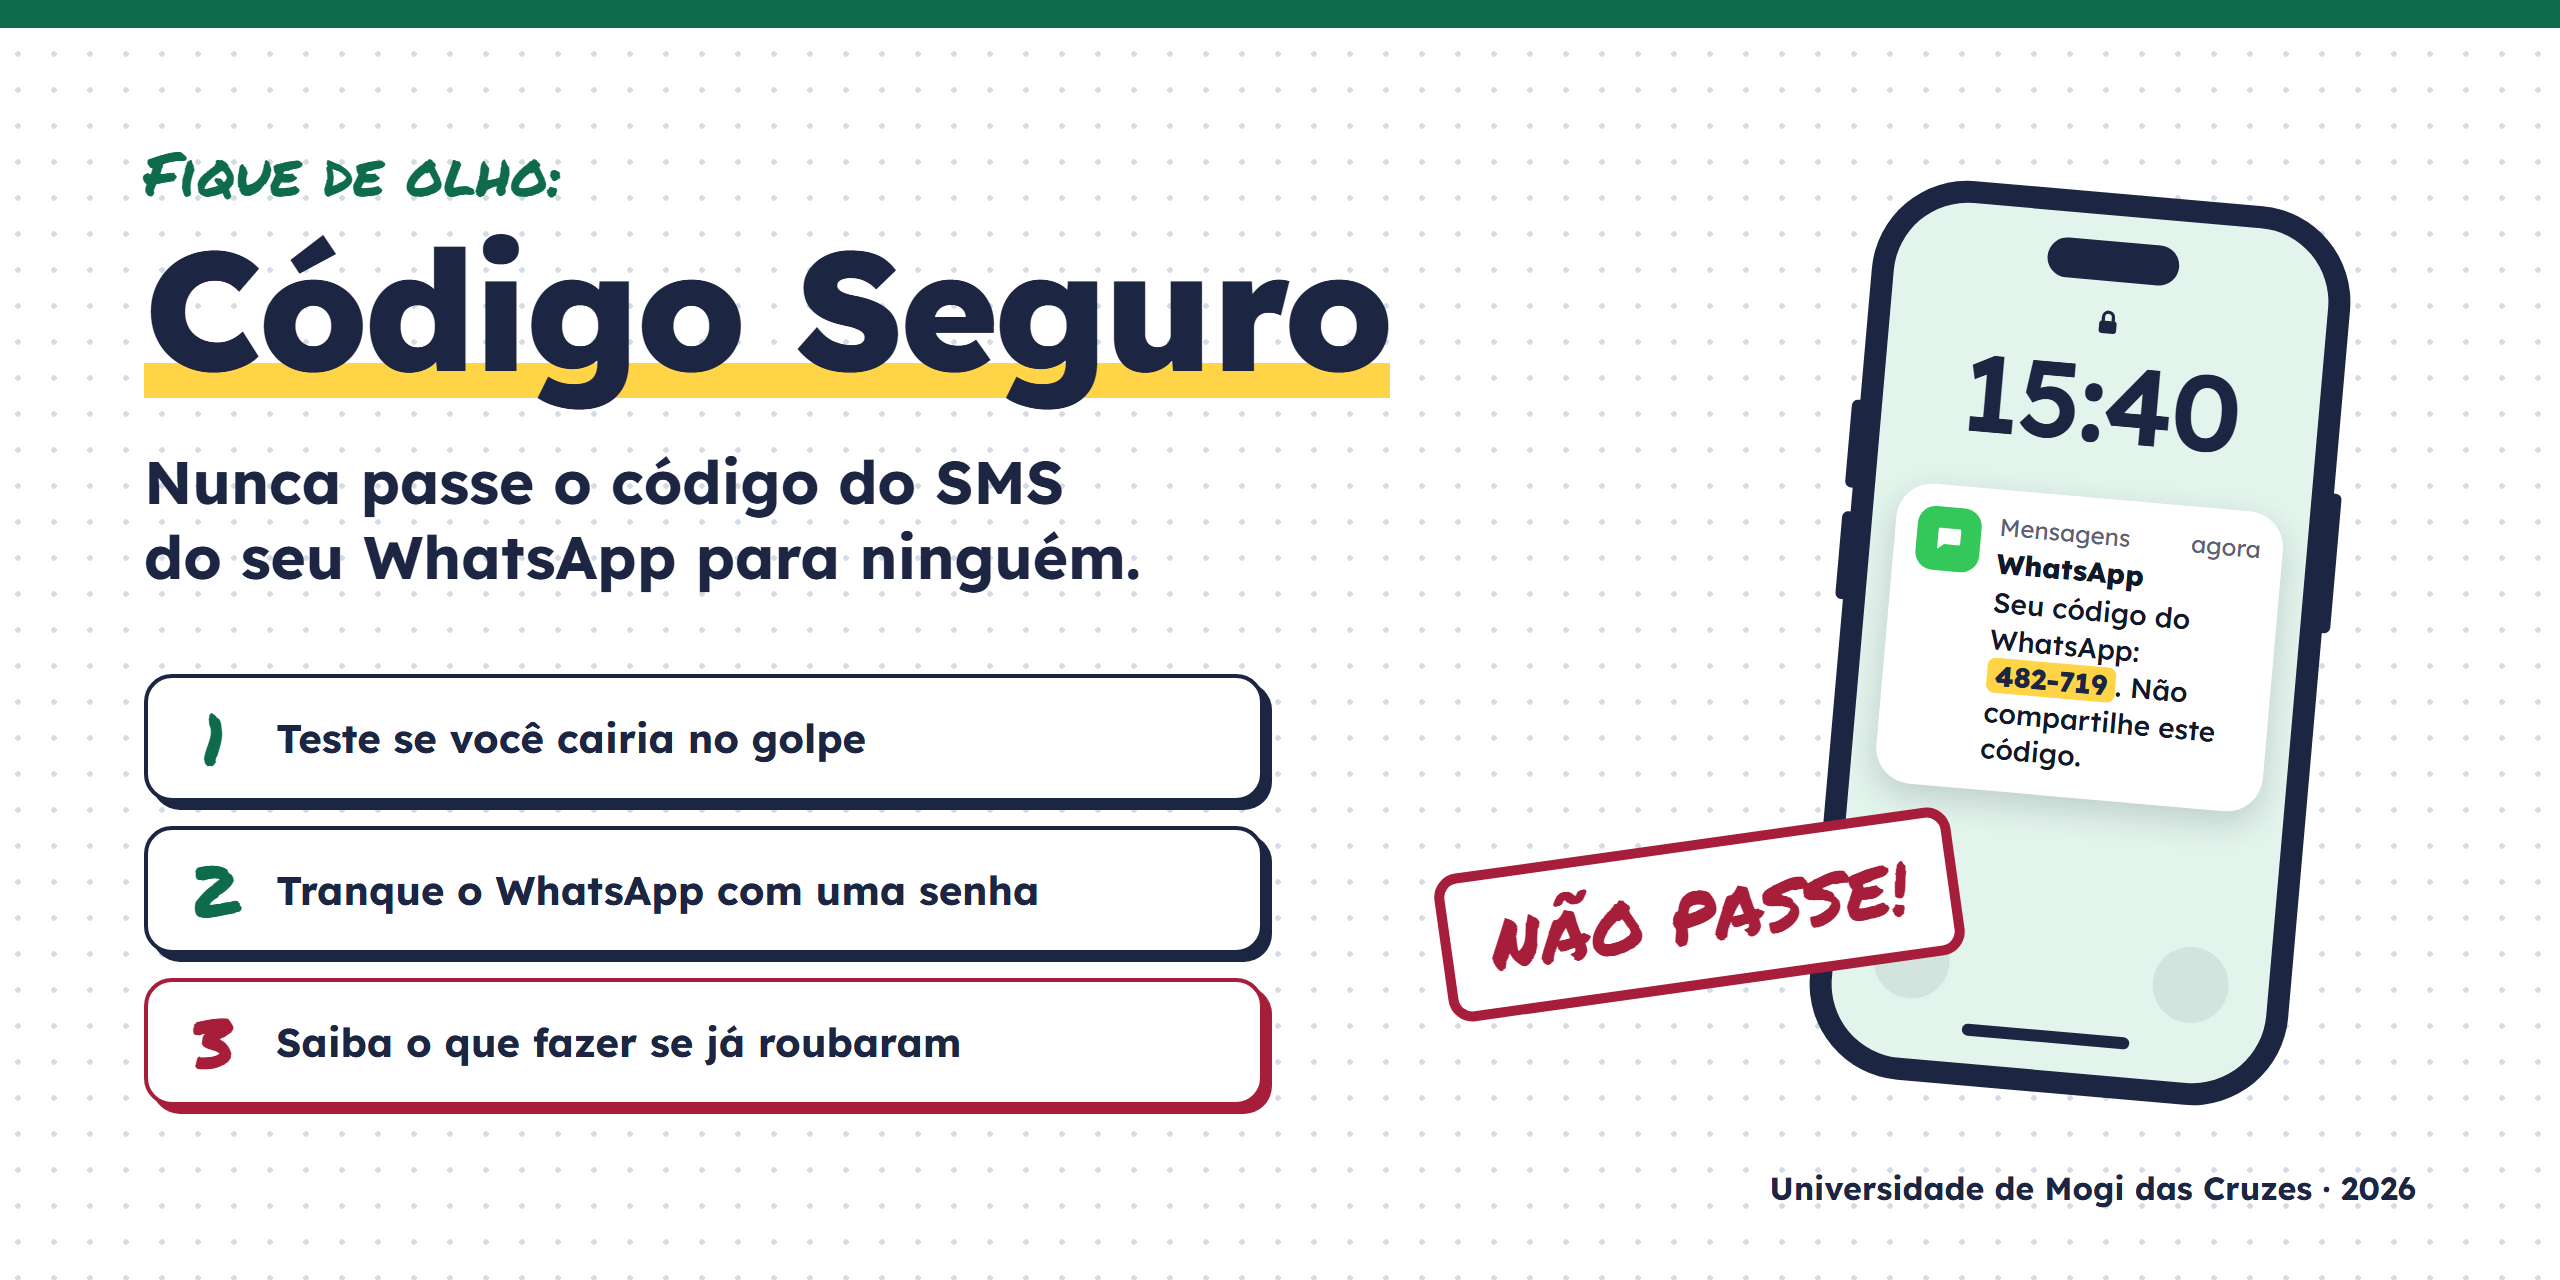
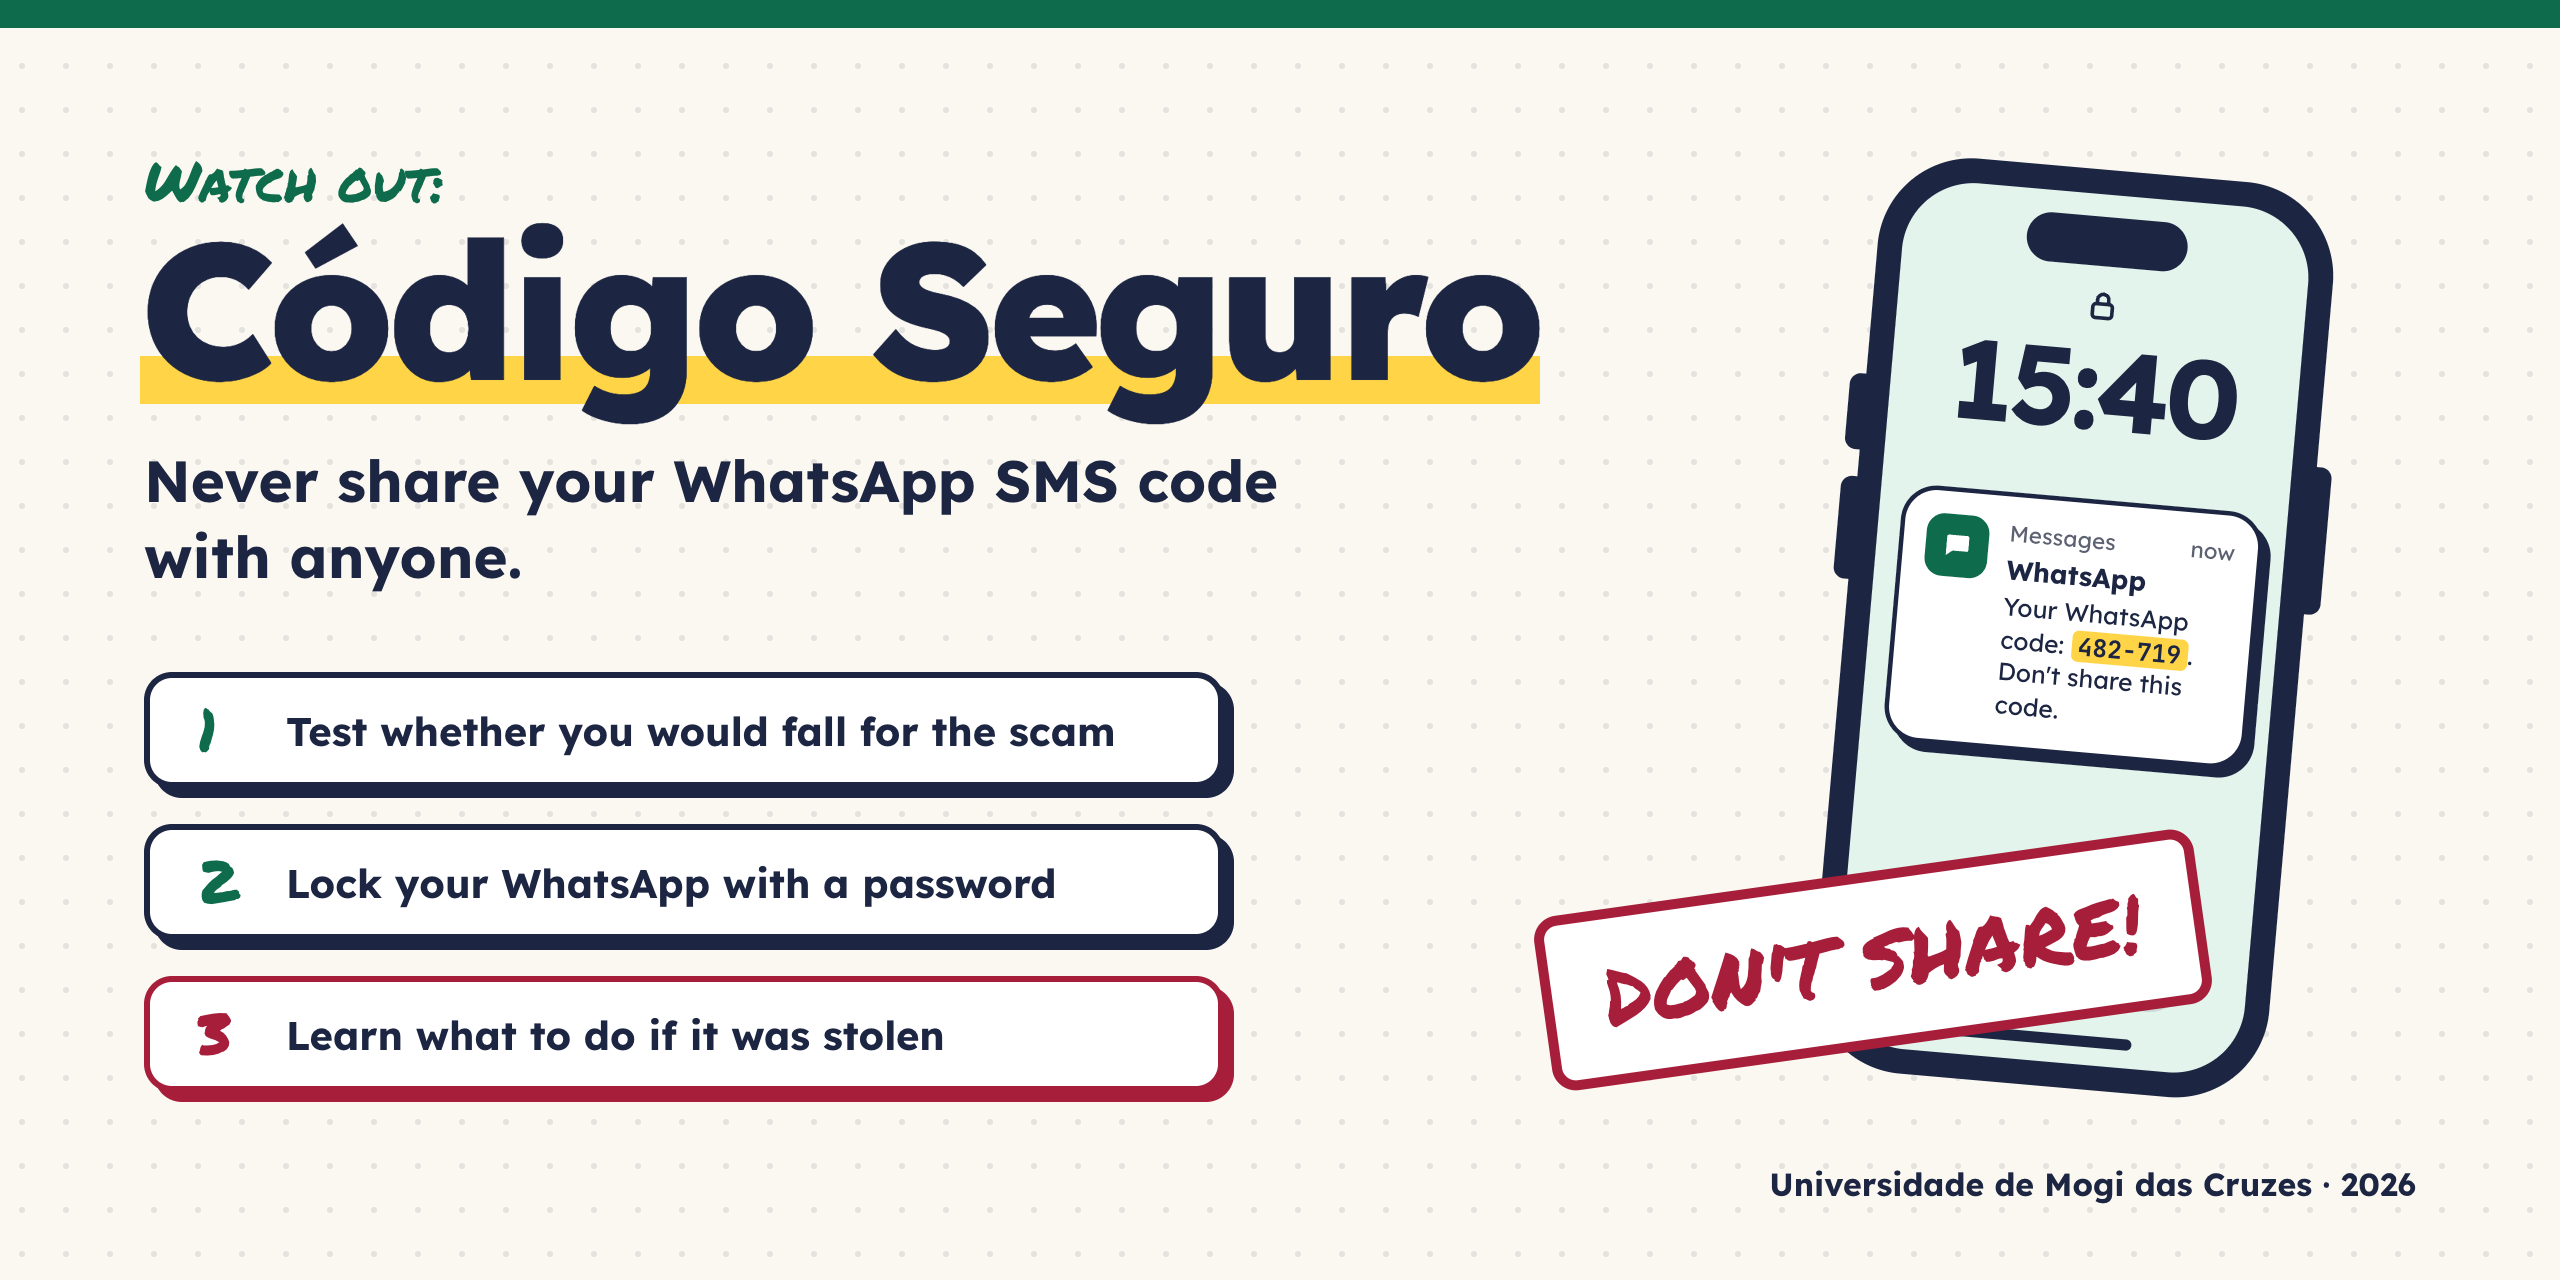
docs(readme): translate readme images to english and drop language note

diff --git a/README.md b/README.md
@@ -15,8 +15,6 @@
   <img src="https://img.shields.io/badge/data%20collected-none-A61E3A?labelColor=555" alt="Data collected: none">
 </p>
 
-> The website and the flyer are in Brazilian Portuguese, since they were made for a Brazilian audience.
-
 ## The scam
 
 <img src="docs/golpe.png" alt="How the scam works: 1, someone calls pretending to be someone else. 2, they ask for the SMS code. 3, they take over your WhatsApp and ask your family for Pix transfers. The rule: the SMS code is yours alone. If someone asks for it, it's a scam, no matter who they are." width="100%">
